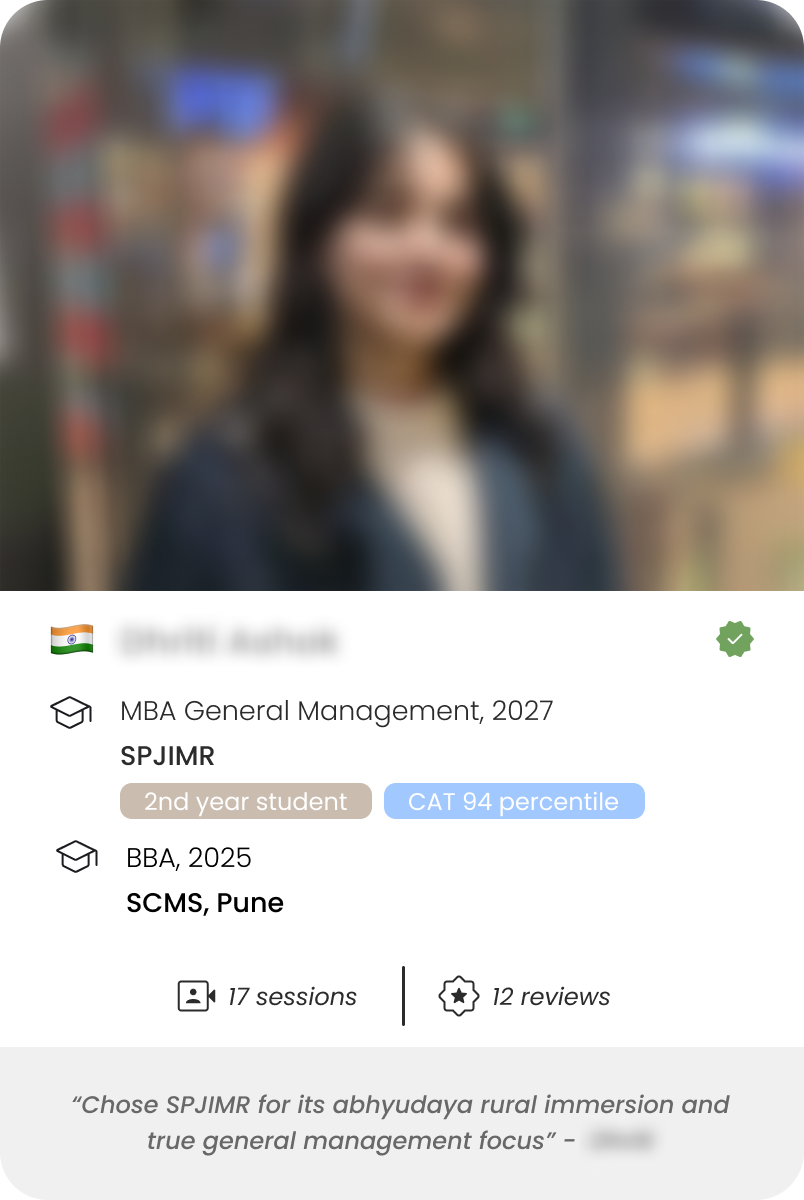
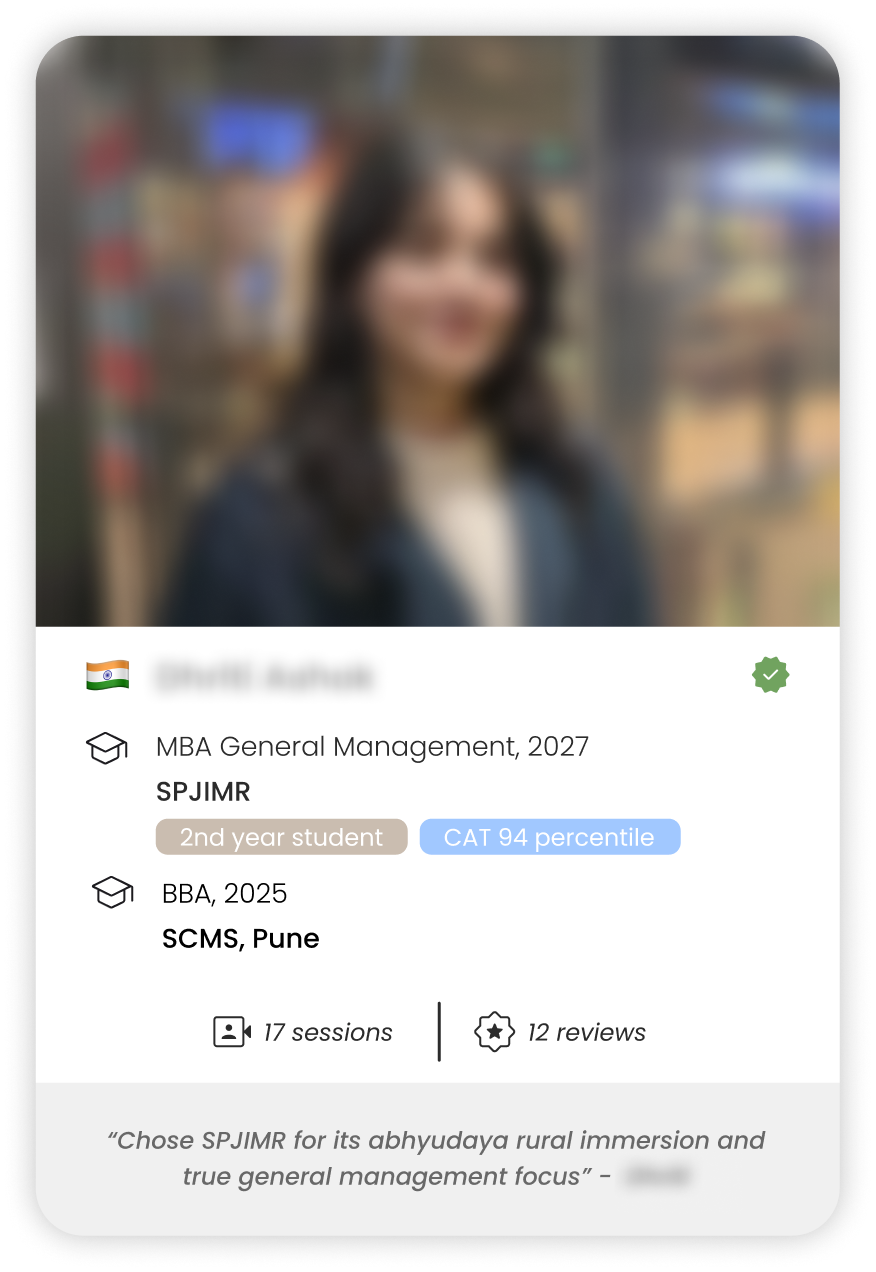
Replace mentor card images with new versions with baked-in shadows
🤖 Generated with Codebuff

diff --git a/app/page.tsx b/app/page.tsx
@@ -241,9 +241,9 @@ export default function LandingPage() {
             </h2>
           </div>
           <div className="grid grid-cols-1 sm:grid-cols-2 lg:grid-cols-3 gap-6 max-w-5xl mx-auto justify-items-center">
-            <img src="/images/card-1.png" alt="Mentor profile card" className="w-full max-w-[340px] shadow-md" />
-            <img src="/images/card-2.png" alt="Mentor profile card" className="w-full max-w-[340px] shadow-md" />
-            <img src="/images/card-3.png" alt="Mentor profile card" className="w-full max-w-[340px] shadow-md" />
+            <img src="/images/card-1.png" alt="Mentor profile card" className="w-full max-w-[340px]" />
+            <img src="/images/card-2.png" alt="Mentor profile card" className="w-full max-w-[340px]" />
+            <img src="/images/card-3.png" alt="Mentor profile card" className="w-full max-w-[340px]" />
           </div>
         </div>
       </section>
